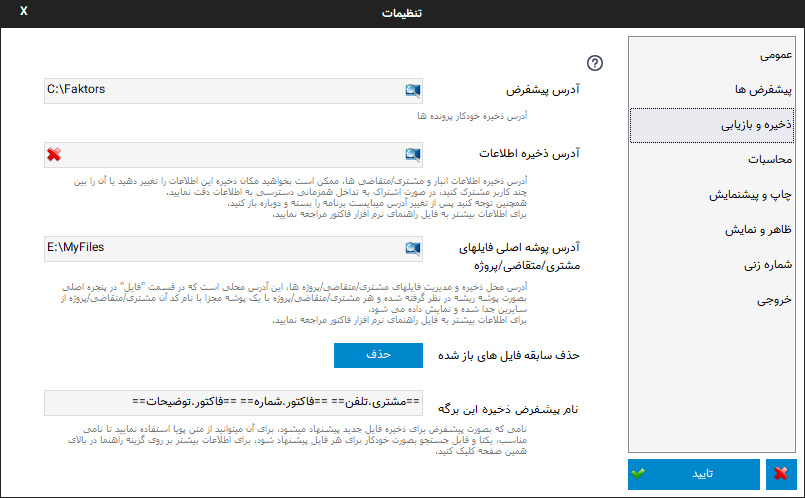
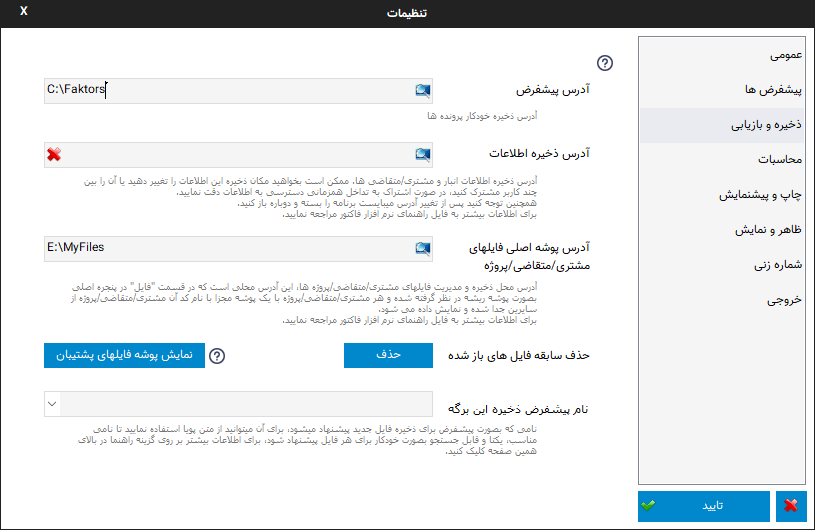
B810

diff --git a/docs/source/window-settings.rst b/docs/source/window-settings.rst
@@ -30,9 +30,9 @@
 
 **بی صدا :** در صورت فعال بودن این گزینه صدا های اعلان پخش نخواهند شد.
 
-|newflag| **نمایش پیغام انتخاب مشتری/مقاضی :** در صورتی که این گزینه فعال باشد اگر در هنگام گرفتن خروجی مشتریی انتخاب نشده باشد پیغامی نمایش داده خواهد شد.
+**نمایش پیغام انتخاب مشتری/مقاضی :** در صورتی که این گزینه فعال باشد اگر در هنگام گرفتن خروجی مشتریی انتخاب نشده باشد پیغامی نمایش داده خواهد شد.
 
-|newflag| **پاک شدن اطلاعات مشتری/متقاضی/پروژه با برگه جدید :** اگر برای صدور برگه جدید نیاز به اطلاعات مشتری/متقاضی/پروژه قبلی دارید و نمیخواهید مجدد آن را انتخاب کنید میتوانید این گزینه را غیر فعال نمایید تا در موقع انتخاب یک برگه جدید یا زمانی که گزینه "جدید" در نوار اصلی را انتخاب میکنید اطلاعات مشتری قبلی حذف نشوند.
+**پاک شدن اطلاعات مشتری/متقاضی/پروژه با برگه جدید :** اگر برای صدور برگه جدید نیاز به اطلاعات مشتری/متقاضی/پروژه قبلی دارید و نمیخواهید مجدد آن را انتخاب کنید میتوانید این گزینه را غیر فعال نمایید تا در موقع انتخاب یک برگه جدید یا زمانی که گزینه "جدید" در نوار اصلی را انتخاب میکنید اطلاعات مشتری قبلی حذف نشوند.
 
 .. _setting-defaults:
 
@@ -91,17 +91,21 @@
 توصیه میشود اگر اطلاع زیادی از این گزینه ندارید قبل از هر اقدامی یک :ref:`پشتیبان<backup>` از اطلاعات تهیه نمایید.
 
 
-|newflag| **آدرس پوشه اصلی فایلهای مشتری/متقاضی/پروژه:** آدرس محل ذخیره و مدیریت فایلهای مشتری/متقاضی/پروژه ها، این آدرس محلی است که در قسمت "فایل" در پنجره اصلی بصورت پوشه ریشه در نظر گرفته شده و هر مشتری/متقاضی/پروژه با یک پوشه مجزا با نام کد آن مشتری/متقاضی/پروژه از سایرین جدا شده و نمایش داده می شود.
+**آدرس پوشه اصلی فایلهای مشتری/متقاضی/پروژه:** آدرس محل ذخیره و مدیریت فایلهای مشتری/متقاضی/پروژه ها، این آدرس محلی است که در قسمت "فایل" در پنجره اصلی بصورت پوشه ریشه در نظر گرفته شده و هر مشتری/متقاضی/پروژه با یک پوشه مجزا با نام کد آن مشتری/متقاضی/پروژه از سایرین جدا شده و نمایش داده می شود.
 
 وارد کردن این آدرس ضروری است، سعی کنید محلی را انتخاب نمایید که مطمئن باشد و بهتر است این محل در درایوی که در آن ویندوز نصب کرده اید نباشد تا با تعویض ویندوز مشکلی ایجاد نگردد.
 
 همچنین پشتیبانگیری از این فایلها به عهده کاربر نرم افزار می باشد.
 
 
-|newflag| **حذف سابقه فایلهای باز شده :** برای پاک کردن لیست فایل های باز شده که در منوی اصلی و پنجره شروع نمایش داده می شوند میتوانید از این گزینه استفاده نمایید.
+**حذف سابقه فایلهای باز شده :** برای پاک کردن لیست فایل های باز شده که در منوی اصلی و پنجره شروع نمایش داده می شوند میتوانید از این گزینه استفاده نمایید.
+
+|newflag| **نمایش پوشه فایلهای پشتیبان :** نرم افزار بصورت خودکار 10 ذخیره آخر یک فایل را در یک پوشه ذخیره میکند تا در صورت بروز هر مشکلی بتوانید به آن رجوع کنید.
+
+نامگذاری این فایلها به این صورت است که ابتدا یک شماره که مربوط به آدرس آن فایل است و برای هر آدرس یکتاست قرار میگیرد، سپس نام فایل و بعد از آن اندیس یک تا ده برای سابقه ذخیره آن فایل. توجه کنید که برای یافتن آخرین فایل به تاریخ تغییر آن فایل مراجعه نمایید و نه اندیس آن. بعبارت دیگر مثلا همیشه اندیس ده نشاندهنده آخرین ذخیره نیست.
 
 
-|newflag| **نام پیشفرض ذخیره برگه**: توسط این گزینه میتوانید نامی که بصورت پیشفرض در موقع ذخیره فایل برگه ها پیشنهاد میشود را تعیین کنید، این نام میتواند در یافتن آن برگه بسیار کارآمد باشد، پس نامی را انتخاب نمایید که برای هر برگه یکتا باشد و شامل اطلاعاتی باشد که برای جستجوی آن در آینده مفید است.
+**نام پیشفرض ذخیره برگه**: توسط این گزینه میتوانید نامی که بصورت پیشفرض در موقع ذخیره فایل برگه ها پیشنهاد میشود را تعیین کنید، این نام میتواند در یافتن آن برگه بسیار کارآمد باشد، پس نامی را انتخاب نمایید که برای هر برگه یکتا باشد و شامل اطلاعاتی باشد که برای جستجوی آن در آینده مفید است.
 
 برای تنظیم این نام بهتر است از :ref:`متن پویا<dynamic-text>` استفاده نمایید.
 
@@ -156,7 +160,7 @@
 
 **عدم نمایش اطلاعات مختصر مشتری/ متقاضی در بالای جدول:** اگر این گزینه غیر فعال باشد اطلاعات مختصری از مشتری/متقاضی انتخاب شده در برگه هایی که این حالت را دارند در قسمت بالای جدول اصلی نمایش داده می شود.
 
-|newflag| **حالت تاریک :** نمایش نرم افزار در حالت تیره، توصیه میشود در محیط های با نور کم برای کاهش فشار بر چشم این حالت را فعال نمایید.
+**حالت تاریک :** نمایش نرم افزار در حالت تیره، توصیه میشود در محیط های با نور کم برای کاهش فشار بر چشم این حالت را فعال نمایید.
 
 
 .. _setting-numbering:

diff --git a/docs/source/backup.rst b/docs/source/backup.rst
@@ -3,6 +3,7 @@
 
 .. _backup:
 
+=================
 پشتیبان گیری
 =================
 
@@ -46,3 +47,15 @@
 **پایان :** در صورت موفقیت آمیز بودن عملیات پشتیبان گیری پیامهای بالا نمایش داده می شود.
 
 .. note:: ممکن است با اجرای فایل پشتیبان بصورت مستقیم و بدون اجرای نرم افزار و انتخاب آن از منوی اصلی با خطا مواجه شوید، در این حالت ابتدا نرم افزار را اجرا کنید و از منوی اصلی وارد قسمت پشتیبانگیری شوید و از آنجا فایل مورد نظر را انتخاب نمایید.
+
+
+|
+|
+
+.. _recovery_file:
+
+بازگردانی فایل
+====================
+به هر دلیلی ممکن است یک فایل دچار مشکل شود، از جمله مشکلات دستگاه ذخیره کننده، قطع ناگهانی برق، ویروس و ... . در این مواقع علاوه بر استفاده از پشتیانگیری ها نرم افزار فاکتور امکان دیگری در اختیار شما قرار داده است که در آن ده ذخیره آخر یک فایل در محلی نگهداری میشود که در صورت لزوم میتوانید از آن استفاده نمایید.
+
+برا اطلاعات بیشتر به قسمت ":ref:`نمایش پوشه فایلهای پشتیبان<setting-save>`" از پنجره تنظیمات بخش ذخیره و بازیابی مراجعه نمایید

diff --git a/docs/source/changes-log.rst b/docs/source/changes-log.rst
@@ -17,11 +17,16 @@
 * امکان وارد کردن شماره ی مشتری ها و یا کپی مستقیم از جدول برای گیرندگان پیامک.
 * ظاهر جدید گزینه محاسبه بصورت درصد در فیلد های پایانی.
 * اضافه شدن امکان تنظیم شماره زنی مستقل برای هر صادر کننده. |setting-numbering|
+* افزوده شدن امکان نگهداری ده ذخیره آخر یک فایل برای پشتیبان و مواقع ضروری. |file_recovery|
 
 
 .. |service_sms| raw:: html
 
     <a class="more_info" href="https://mohsensoft.com/docs/faktor/service-sms.html" target="_blank"></a>
+
+.. |file_recovery| raw:: html
+
+    <a class="more_info" href="https://mohsensoft.com/docs/faktor/backup.html#recovery-file" target="_blank"></a>
     
 
 **ویرایش 5.4**
